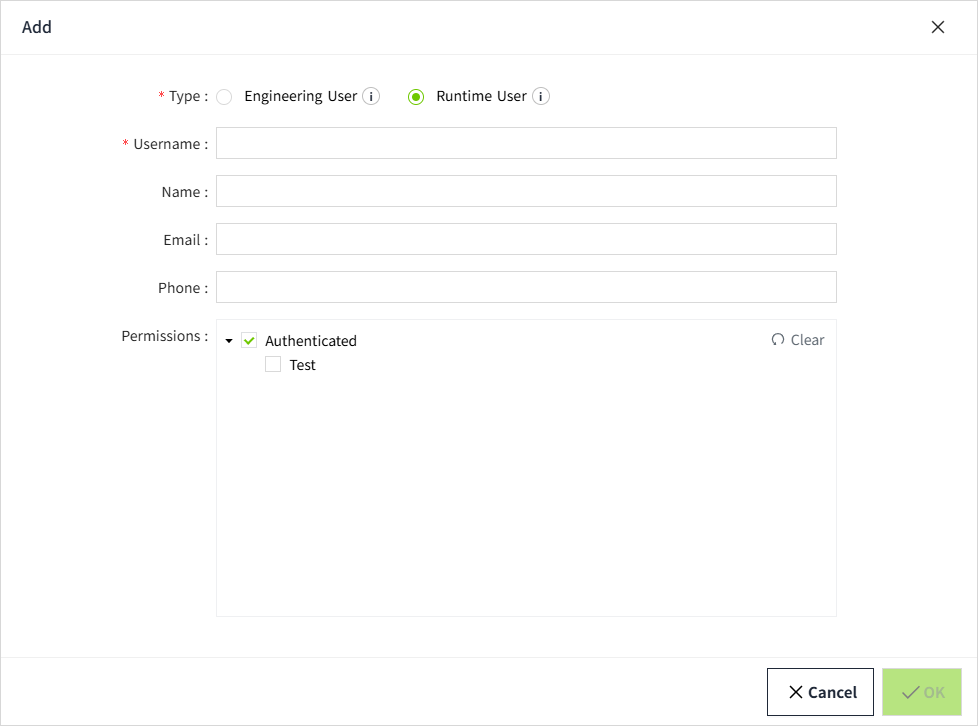
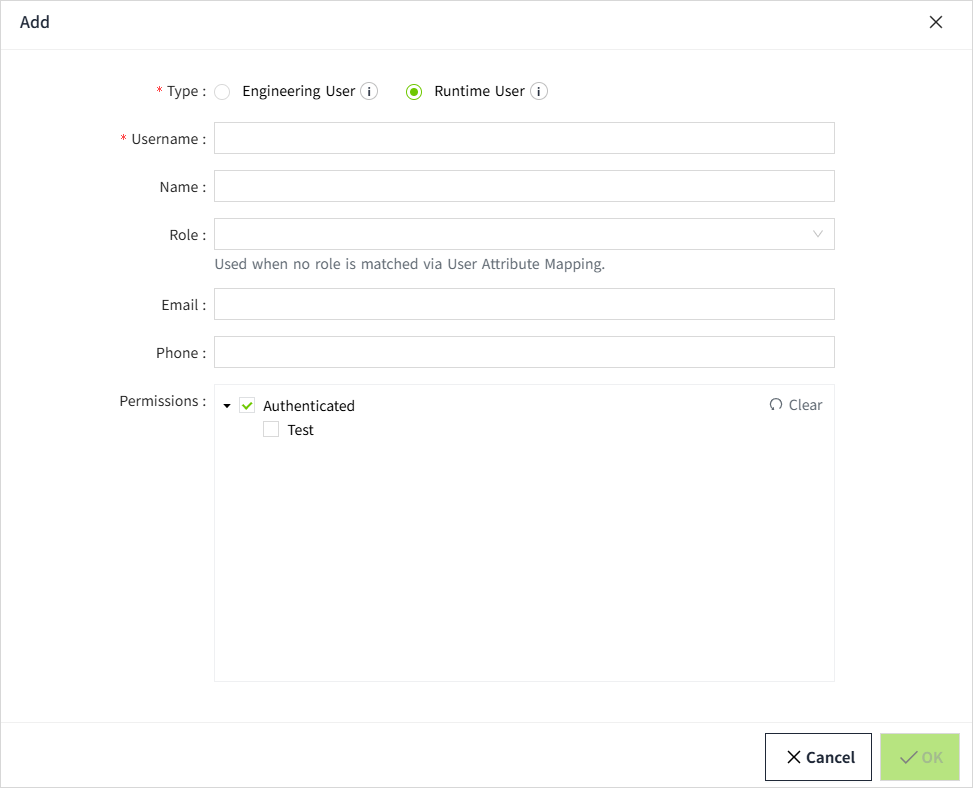
1

diff --git a/docs/management-platform/security/identity-provider/user-grants.md b/docs/management-platform/security/identity-provider/user-grants.md
@@ -12,16 +12,15 @@ User Grants can only be applied to users after they authenticate through the Ide
 
 **Note:** The system cannot verify any users created here based on the actual users in the Identity Provider. Instead, the **username** needs to be entered **accurately**, including case sensitivity. When users log in, the system will check if their username matches any of the configured usernames to grant user authorization.
 
-## Configuring User Grants
+## Configuring User Grants (Type:OpenID Connect)
 
 1. Click the **"Security" → "Identity Provider"** menu.
 
     ![alt text](../1.png)
 
-2. In the **Identity Provider** list, click the **"User Grants"** in the action column for a specific entry.
+2. In the **Identity Provider** list, click the "User Grants" button for the data of the type "OpenID Connect".
 
-    ![alt text](36.png)
-
+    ![alt text](36.png) 
 3. In the pop-up window, click the **"Add"** button to add a user.
 
     ![alt text](37.png) 
@@ -30,9 +29,18 @@ User Grants can only be applied to users after they authenticate through the Ide
 
 4. Select the Type, fill in the user information, and assign Permissions (you can only select access levels outside of roles, since roles are mapped through User Attribute Mapping). Make sure the username matches the username used in the third-party system.
 
-5. Once the configuration is complete, click the Save button to save the settings.
+5. Once the configuration is complete, click the OK button to save the settings.
 
 6. The added users will be displayed in the User Grants list.
+
+**Notes:**
+
+1. The Role field is primarily used in scenarios where a third-party Identity Provider (IDP) does not support role creation. In VC Hub, the startup page for a runtime user is configured based on roles. Therefore, if a runtime user does not have an assigned role, they will not be able to open the project’s startup page.
+
+2. Regardless of which role is assigned to the user during creation, if the user is successfully mapped to a role in VC Hub after login, the mapped role will automatically take effect. It will display the mapped role in this field.
+
+3. If the third-party user cannot be successfully mapped to any role in VC Hub, the system will automatically use the role configured here as the user’s role. This ensures the user can proceed with subsequent permission verification and access control.
+
 
 If a user logs in directly through a third-party system without being pre-created in User Grants, the following dialog will appear after login:
 
@@ -44,7 +52,28 @@ After a successful login, the third-party user information will be automatically
 
 **Notes:**
 
-Every time a user successfully logs in through a third party, the latest information such as Name, Email, and Phone number from the third party will be synchronized to the VC Hub.
+- Every time a user successfully logs in through a third party, the latest information such as role, Name, Email, and Phone number from the third party will be synchronized to the VC Hub.
+
+## Configuring User Grants (Type:Local)
+
+1. Click the **"Security" → "Identity Provider"** menu.
+
+    ![alt text](../1.png)
+
+2. In the **Identity Provider** list, click the "User Grants" button for the data of the type "Local".
+
+    ![](45.png)
+3. In the pop-up window, click the **"Add"** button to add a user.
+
+    ![](47.png)
+
+    ![](46.png)
+
+4. Select the permissions (you can only select access levels outside of roles, because the role has already been set when creating the user). Make sure the username matches the username in the user list.
+
+5. Once the configuration is complete, click the OK button to save the settings.
+
+6. The added users will be displayed in the User Grants list.
 
 
 

diff --git a/docs/management-platform/security/identity-provider/user-attribute-mapping.md b/docs/management-platform/security/identity-provider/user-attribute-mapping.md
@@ -7,9 +7,14 @@ User attribute mapping allows you to map information from the Identity Provider 
 1. Click the **"Security" → "Identity Provider"** menu.<br>
    ![alt text](../1.png)
 2. In the Identity Provider list, click the "User Attribute Mapping" for a specific entry in the action column.
-   ![alt text](33.png)
+   ![alt text](33.png) 
 3. In the pop-up window, set the source and mapping path. The system provides the following 5 properties that can be used for mapping:
    ![alt text](34.png)
+
+**Notes:**
+
+- The **User Attribute Mapping** option is only available when the data type is **OpenID Connect**.
+
 
 **Properties**
 

diff --git a/docs/2d-visualization/project-properties/index.md b/docs/2d-visualization/project-properties/index.md
@@ -17,7 +17,7 @@ Click the Settings button on the menu bar to set properties.
 | Running Page Loading Style | Used to set the running page and the loading effect before the page content is fully loaded. If not enabled, the system default loading effect will be used; if enabled, the user is allowed to customize the loading background color and loading style of the running page.  <br>![alt text](2.png)     |
 | Loading Background Color   | This configuration item is only displayed after turning on "Running Page Loading Style". Set the background color of the running page when loading.    |
 | Loading Style              | This configuration item is only displayed after turning on "Running Page Loading Style". Set the loading animation when the running page is loaded.  Built-in styles support changing colors. After selecting the style, click the "Set Color" button to modify the color.  It also supports users to upload pictures by themselves. Images uploaded by users themselves do not support color modification.    |
-| Auto Login                 | When the Auto Login is enabled, you can view the running page without logging in.  <br>![alt text](3.png)  <br> **Notes**: <br>Regardless of what permissions the account configured here has, after auto login, if you access the Admin Console directly via a browser, it will be view-only.After logging out and logging in again, the Admin Console will display the available operations according to the account’s original permissions.|
+| Auto Login                 | When the Auto Login is enabled, you can view the running page without logging in.  <br>![alt text](3.png)  <br> **Notes**: <br>The **Username** can only be selected from users whose user type is Runtime.When selecting the engineering user, an error message will be displayed when saving.|
 | User Name                  | User name for automatic login.    |
 | Password                   | Password for the automatic login.   |
 | Salt                       | To share a runtime page with users who do not have an account, and to enhance system security, you must manually append `?salt=xxxxxxxxx` to the end of the runtime page URL.  <br>For example:  <br>If the current runtime screen URL is:<br>`http://vpc-sz-scadap52:8066/#/runtime/Project1/Home`  <br>To share this page with other users without an account, you need to provide them with the following URL:  <br>`http://vpc-sz-scadap52:8066/#/runtime/Project1/Home?salt=xxxxxxxxx`  <br>To **terminate access** for a user who has already received the shared link, perform either of the following actions in the dialog shown above:  <br>- Click **“Regenerate”** to update the **Salt** value, or <br>- Disable the **Auto Login** feature.  <br>After doing so, the user will no longer be able to view the page using the previously shared link.  <br>**Note:** Due to browser caching, the user may still be able to access the page for a short time while the cache is valid. Once the cache expires, the original link will no longer work. |